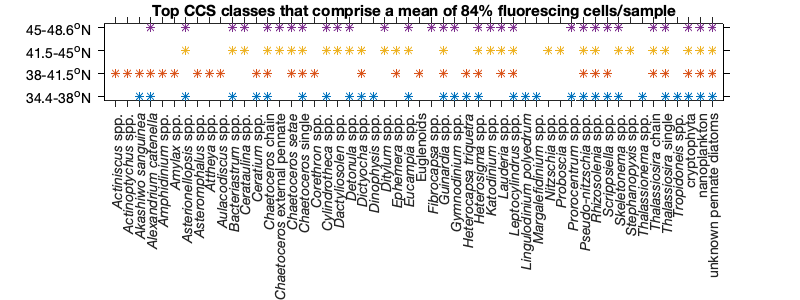
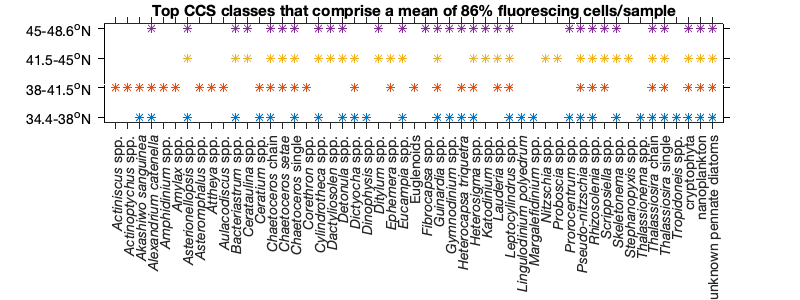
no external pennates

diff --git a/IFCB-Tools/compare_regional_local_classifier.m b/IFCB-Tools/compare_regional_local_classifier.m
@@ -1,9 +1,10 @@
 clear;
 Mac=1;
-nameL1='15Jun2022_UCSC1000';
+nameL1='15Jun2022';
+%nameL1='15Jun2022_UCSC1000';
 %nameL2='14Jun2022_UCSC2000';
 nameR1='15Jun2022_regional1000';
-%nameR2='14Jun2022_regional2000';
+nameR2='14Jun2022_regional2000';
 
 if Mac
     basepath = '~/Documents/MATLAB/bloom-baby-bloom/';    
@@ -19,11 +20,11 @@ addpath(genpath(basepath));
 load([filepath 'performance_classifier_' nameL1],'all'); L=flipud(all); 
 %load([filepath 'performance_classifier_' nameL2],'all'); L2=flipud(all);
 load([filepath 'performance_classifier_' nameR1],'all'); R=flipud(all);
-%load([filepath 'performance_classifier_' nameR2],'all'); R2=flipud(all);
+load([filepath 'performance_classifier_' nameR2],'all'); R2=flipud(all);
 maxn=round(max([R.total]),-2);
 [~,class]=get_class_ind( R.class, 'all', basepath);
 
-%find and fill gaps, if they exist
+%% find and fill gaps, if they exist
 classR=R.class;
 classL=L.class;
 UCSC2=R;
@@ -64,7 +65,7 @@ set(gca,'ylim',[1 (length(class)+1)],'ytick',1.5:1:length(class)+.5,...
     set(h,'pos',hp,'xaxisloc','top','fontsize',9); 
     h.Label.String = 'F1 score';    
     h.Label.FontSize = 11;  
-
+%%
 set(gcf,'color','w');
 print(gcf,'-dpng','-r100',[figpath 'pcolor_Regional_vs_Local_classifier_' nameL '.png']);
 hold off

diff --git a/NOAA/Shimada/find_TopClasses_latitude.m b/NOAA/Shimada/find_TopClasses_latitude.m
@@ -93,7 +93,8 @@ val=sum(bvml(:,id1),2); bvml(:,id2)=sum([bvml(:,id2),val],2); bvml(:,id1)=NaN;
 clearvars id1 id2 id3 id4 IDX val idx fx_un total
 
 %% Find top classes for each latitude region
-irem=find(ismember(class2use,{'unclassified' 'centric' 'flagellate' 'Dinophyceae_pointed' 'Dinophyceae_round'}));
+irem=find(ismember(class2use,{'unclassified' 'centric' 'flagellate' ...
+    'Dinophyceae_pointed' 'Dinophyceae_round' 'Chaetoceros_external_pennate' 'Pseudo-nitzschia_external_pennate'}));
 
 d=(max(lat)-min(lat))./n;
 for i=1:n
